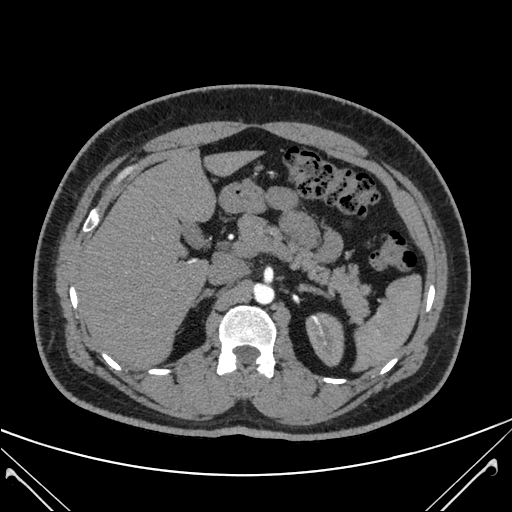
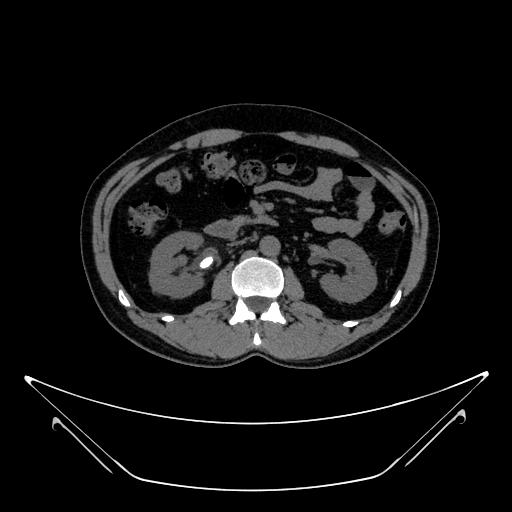
fixed

diff --git a/src/pipeline/prediction.py b/src/pipeline/prediction.py
@@ -9,7 +9,7 @@ class PredictionPipeline:
         self.filename=filename
     
     def predict(self):
-        model=load_model(os.path.join("model","training_model.h5"))
+        model=load_model(os.path.join("model","training_model.h5"),compile=False)
 
         class_indices = {0: 'Cyst', 1: 'Normal', 2: 'Stone', 3: 'Tumor'}
         imagename=self.filename